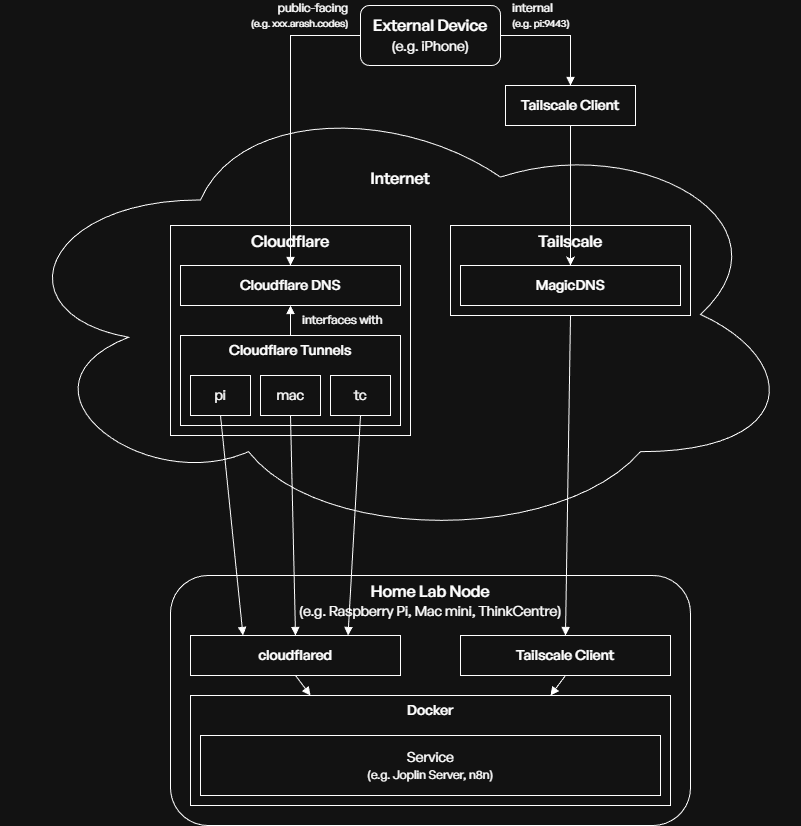
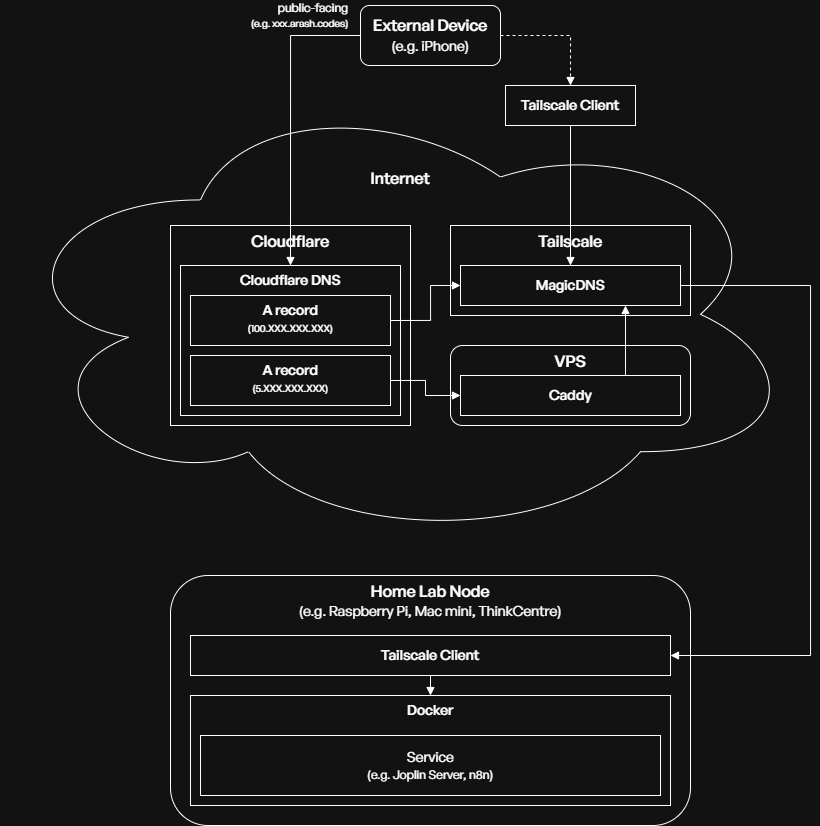
feat: update content

diff --git a/content/projects/homelabbing.md b/content/projects/homelabbing.md
@@ -1,11 +1,11 @@
 ---
-title: Homelabbing
+title: Nusantara (home lab)
 date: 2025-06-06
 tags:
   - spark
   - project
 ---
-A home lab is an environment consisting of running servers, services, and infrastructure setups at home, usually created as a form of exploration or interest. Homelabbing taps into the personal setups already readily available at home (networks and devices).
+A home lab is an environment consisting of running servers, services, and infrastructure setups at home, usually created as a form of exploration or interest. Home labbing taps into the personal setups already readily available at home (networks and devices).
 
 > [!abstract] The state of things
 > 
@@ -19,7 +19,7 @@ A home lab is an environment consisting of running servers, services, and infras
 > 
 > If you're curious about something in here that you'd like some clarification about, feel free to [reach out](https://arash.codes/#connect)! I'm more than happy to reply or even just say hi. :)
 
-I currently have an extremely basic homelab with the working name *Nusantara* — archipelago in Malay — with plans to expand even further and explore interesting tech in the time to come!
+My home lab's name is *Nusantara*, meaning archipelago in Malay. I think it's such an apt descriptor of how things are now — a federation of devices each with their own strengths, doing their own things, but still together nonetheless.
 
 # Overview
 
@@ -27,21 +27,23 @@ The two diagrams below that show different aspects of the home lab:
 
 ![[homelab-service-access-flow.png]]
 
-The **service access diagram** (above) shows the way an externally-connected device, such as my phone on the go, can connect to and access the services running on my home lab through external vendors that help bridge the home lab node to the Internet.
+The **service access diagram** (above) shows the way a client (e.g. my phone on the go), can connect to and access the services running in Nusantara through a chain that bridges it to the internet.
 
-The device can connect to a service through two means: public-facing (accessing a domain like `XXX.arash.codes`) in which the request is routed through Cloudflare's network (including its DNS records resolver and Tunnels) and internally in which the request is routed through Tailscale.
+The client has two means of connecting:
 
-- The consideration for using two different methods lie in security: services that shouldn't or doesn't need to be exposed to the entire internet (e.g. Portainer for handling Docker containers) are exposed internally through Tailscale. Services that should be accessible by other apps or for convenience (e.g. Joplin) will be exposed through Cloudflare.
+- Via a public-facing domain (e.g. `XXX.arash.codes`), through which the request is routed through Cloudflare DNS. In normal cases, the domain points to a public-facing VPS that handles routing using Caddy. If the service is private (i.e. should only be accessed by me), the connection can terminate by having an A record that points to a Tailscale IP (e.g. `100.XXX.XXX.XXX`); in this case, the connection will only go through if the client is connected to the tailnet using a Tailscale client.
+- Directly using Tailscale's MagicDNS (e.g. `100.XXX.XXX.XXX:PORT` or `DEVICE-NAME:PORT`). New or private services are typically connected to this way, until I find the time to update the Caddy configuration on the VPS to include the appropriate subdomain to enable routing. This connection only works if the client is connected to the tailnet using a Tailscale client.
 
 
 ![[homelab-network.png]]
 
-The **network diagram** (above) shows a technical overview of how my home lab nodes are connected to the internet. The flow follows a conventional set up for a home network, with the ISP connected to the household using a fibre optic cable that terminates at an ONT before the rest of the network is connected via Ethernet and Wi-Fi after the router.
+The **network diagram** (above) shows a technical overview of how the nodes in Nusantara are connected to the internet. Like most household networks, my ISP provisions broadband access through optical fibre. From there, through a series of networking devices (an ONT, consumer router, and unmanaged switch), internet connectivity is provisioned to each node in the network via Wi-Fi and/or Ethernet.
 
-- A key highlight in this network configuration is the use of [carrier-grade NAT](https://en.wikipedia.org/wiki/Carrier-grade_NAT) (CGNAT). CGNAT allows internet service providers (ISPs) to share a single public IP address between many customers often with cost- and resource-saving benefits. This causes several issues:
-	- Port forwarding is not supported, meaning conventional means of allowing external internet traffic into the home network is no longer supported. Found this out the hard way a long time ago when trying to set up a Minecraft server to no avail.
-	- Dynamic DNS, an alternative method to port forwarding, also is not supported.
-	- Accessing services within the network becomes harder, and alternatives (e.g. Tailscale and Cloudflare Tunnels) have to be looked into to access services from the internet.
+It's worth noting that my ISP uses [carrier-grade NAT](https://en.wikipedia.org/wiki/Carrier-grade_NAT) (CGNAT), which shares a single public IP address between many customers often with cost- and resource-saving benefits. Unfortunately for me, this implementation causes several issues:
+
+- Port forwarding is not supported, meaning conventional means of allowing external internet traffic into the home network is no longer supported. Found this out the hard way a long time ago when trying to set up a Minecraft server to no avail.
+- Dynamic DNS, an alternative method to port forwarding, also is not supported.
+- Accessing services within the network becomes harder, and alternatives (e.g. Tailscale and Cloudflare Tunnels) have to be looked into to access services from the internet.
 
 
 > [!info] Additional resources
@@ -67,7 +69,7 @@ The **network diagram** (above) shows a technical overview of how my home lab no
 	* 32 GB DDR4-3600 [[random-access-memory|RAM]]
 	* 1 TB + 1 TB SSD internal storage
 	* 8 GB NVIDIA RTX 3070 Ti
-* VPS
+* VPS (active)
 	* 64-bit 2 vCPU cores
 	* 2048 MiB [[random-access-memory|RAM]]
 	* 64 GiB internal storage
@@ -124,47 +126,53 @@ The **network diagram** (above) shows a technical overview of how my home lab no
 
 # Devlog
 
-## 16 January 2025
+**16 January 2026**
 
 - I'm playing around with the idea of giving this home lab the name *Nusantara* ("archipelago" in Malay). It just feels so perfect in many ways, and I think I'm going to commit to using that as a name moving forward
 	- It fits exactly with how this home lab is set up: a federation of separate devices working in unison, exactly like a collection of islands in an archipelago!
 
-## 3 January 2025
+**3 January 2025**
 
 - Made the switch to `ufw` from `firewalld` because of one certain issue where Docker keeps complaining about IPv4. I can't really explain what the error is because I don't really understand it, but I know that it has to do with `firewalld` and `nftables` instead of the native `iptables` that Docker is comfortable with
 
-## 2 January 2025
+**2 January 2025**
 
 - Continued work on migrating over things to the VPS and further securing it
 	- My home lab now no longer has any dependence on Cloudflare Tunnels; everything's been migrated over to the VPS now with Caddy handling the routing!
 	- I've adopted `firewalld` to secure the VPS' ports to try to mitigate attacks on the public IP address of the VPS
 	- I've played around with Caddy even more and learnt a lot about what it can do. One of the most exciting things is implementing a redirect for any subdomain (`*.arash.codes`) to the root domain `arash.codes` 
 
-## 1 January 2025
+**1 January 2026**
 
 - I might've made a rash decision to throw money for a VPS... but can I *really* say that it was a rash decision if I've been thinking about it for a while?
 	- Having access to a VPS now means that I can work around all my CGNAT issues, and that means I can play around with networking on a more intricate manner
 - Pangolin seems like a good thing to try out, but might it conflict with the Tailscale implementation I already have going on now?
-## 31 December 2025
+
+**31 December 2025**
 
 - After the disaster that was [[#28 December 2025|running `rm -rf /*`]], I decided to reinstall Debian on the ThinkCentre. The backup scripts I vibe-coded really came in clutch — it restored all but one of my services running on Docker, and I'm pretty happy with how that turned out!
 - Tailscale might encounter an issue where it has to fight other services in overwriting the `/etc/resolv.conf` file. [Tailscale discusses this in their docs](https://tailscale.com/kb/1188/linux-dns?q=dns+fighting#dhcp-dhclient-overwriting-etcresolvconf), but it's pretty short and I couldn't find much info besides the clue of installing `systemd-resolved`. Here's what you need to do after installing it:
+  
 	1. Enable and start the system service.
 	   ```
 	   sudo systemctl enable systemd-resolved
 	   sudo systemctl start systemd-resolved
-	    ```
+	   ```
+
 	2. Edit `/etc/systemd/resolved.conf` and add a preferred DNS server of your choice. This will apply to all interfaces globally.
+	
 	3. Restart the system service and check its status.
 	   ```
 	   sudo systemctl restart systemd-resolved
 	   resolvectl status
 	   ```
-	   4. If MagicDNS is still not working as expected, disable and re-enable MagicDNS on the server again.
-	    ```
-	    sudo tailscale set --allow-dns=false
-	    sudo tailscale set --allow-dns
-	    ```
+
+	4. If MagicDNS is still not working as expected, disable and re-enable MagicDNS on the server again.
+	   ```
+	   sudo tailscale set --allow-dns=false
+	   sudo tailscale set --allow-dns
+	   ```
+
 - Goodbye Portainer, hello Komodo! I've finally ported over all my Docker containers + Compose files over. I did this for several reasons:
 	- I liked the idea that Komodo is fully open-source, compared to Portainer that has some business/enterprise offerings and feature paywalls
 	- I found Komodo's interface a lot easier to navigate than Portainer's, and it's easy to configure stacks and containers
@@ -174,36 +182,38 @@ The **network diagram** (above) shows a technical overview of how my home lab no
 - I think I've configured a flow between Renovate, GitHub, and Komodo that allows the semi-auto-updating (still needs my review to merge the PR) of my home lab's services. It's not exactly the same as the Reddit post I saw yesterday, because it has a small catch that I'm not as satisfied with
 	- Instead of using webhooks and redeploying when the Docker Compose files get updated, I run a cron job every midnight that pulls the repository and updates the files if there are any updates. The main reason behind this is that the Kodomo instance is only available behind Tailscale, and GitHub won't be able to call the webhook because the instance is unreachable from the public :(
 
-## 30 December 2025
+**30 December 2025**
 
 - I saw a Reddit post about [someone setting up Renovate, Forgejo, and Komodo together](https://www.reddit.com/r/selfhosted/comments/1pywu5v/i_finally_setup_komodo_forgejo_renovate_for/). Seems pretty enticing — would be really nice to have an auto-updatable home lab stack with my Git repo of Compose files!
 - I finally upgraded n8n to v2.0+, which [fixes a super annoying issue](https://docs.n8n.io/2-0-breaking-changes/#return-expected-sub-workflow-data-when-the-sub-workflow-resumes-from-waiting-waiting-for-webhook-forms-hitl-etc) that bricked an important custom tool for Pip. I'm glad that the devs managed to identify and solve the issue!
 	- The gist of it is this: before v2.0, AI agents that call other n8n subflows that have some asynchronous task (e.g. asking and waiting for human approval) may obtain an unexpected output: the input itself!
 	- If my tool is to run a shell command, given the input of the command to run, the AI agent will see the output of the command to run again instead of seeing the exit code, standard output, and standard error as expected
 
-## 28 December 2025
+**28 December 2025**
 
 - Finally figured out how to combine Cloudflare DNS and Tailscale to make an internal service available through a public domain! This means that I can connect to a service `XXX` at `XXX.arash.codes`, but only if I'm connected to my tailnet. If you're curious, the steps are here:
+
 	1. Create an A (if you want to use the IPv4 MagicDNS address) or CNAME (if you want to use the domain MagicDNS address) and point it to your server connected to the tailnet
 		- If you're using a provider like Cloudflare that offers proxying services (that orange cloud next to your record), make sure to disable it — this only works if the provider routes DNS requests only
-	2. Use Caddy (or another web server/reverse proxy service) to route requests coming from `XXX.yourdomain.tld` the local service running on a port on your server
-		   - Since my service also implements a self-signed SSL certificate, I'll need to tell Caddy to ignore insecure TLS versions. My Caddyfile looks something like this:
-		     
-		   ```
-		   XXX.arash.codes {
-			  reverse_proxy https://localhost:PORT {
-			    transport http {
-			      tls
-			      tls_insecure_skip_verify
-			    }
-			  }
+
+	2. Use Caddy (or another web server/reverse proxy service) to route requests coming from `XXX.yourdomain.tld` the local service running on a port on your server. Since my service also implements a self-signed SSL certificate, I'll need to tell Caddy to ignore insecure TLS versions. My Caddyfile looks something like this:
+	   
+	   ```
+	   XXX.arash.codes {
+		  reverse_proxy https://localhost:PORT {
+			transport http {
+			  tls
+			  tls_insecure_skip_verify
 			}
-		   ```
+		  }
+		}
+	   ```
+
 - Guess 👏 who 👏 ran 👏 `rm -rf /*` 👏 instead 👏 of 👏 `rm -rf ./*`?
 	- This kinda messed up my ThinkCentre, but I'm so glad that I didn't run `sudo` — that might've irrevocably destroyed my ThinkCentre and forced me to reinstall Debian on that poor guy
 	- Lesson learnt: [I've vibe-coded a script](https://github.com/arashnrim/homelab/commit/1fc293199c91d1fc8ae7b9a3b9fc748aa6645f34) that backs up the contents of all the Docker volumes and bind mounts (the important stuff) and throws them to the HDD attached to the Raspberry Pi for safe (enough) storage
 
-## 27 December 2025
+**27 December 2025**
 
 - I'm now switching over Uptime Kuma to Checkmate as my primary uptime monitoring tool, mostly because Checkmate exposes an API that's easy to interface with in other places (e.g. my n8n Telegram bot!)
 - My obsession with this n8n Telegram bot project has gotten bad to the point where I can't help but create even more tools for the agent to use, and seeing everything come together just scratches my brain the right way...
@@ -213,7 +223,7 @@ The **network diagram** (above) shows a technical overview of how my home lab no
 - Learnt that Tailscale has a wrapper around SSH called [Tailscale SSH](https://tailscale.com/kb/1193/tailscale-ssh) that abstracts the authentication component. In other words, once Tailscale SSH has been configured on a remote device on the tailnet, calling ssh username@magicdns-hostname will cause Tailscale to intercept and approve the authentication automatically. No more passwords or SSH keys!
 	- A small caveat with this is that [there doesn't seem to be Windows support](https://tailscale.com/kb/1193/tailscale-ssh#prerequisites) just yet and that you'll need to install [the right version of Tailscale on macOS](https://tailscale.com/kb/1065/macos-variants#which-should-i-choose)
 
-## 26 December 2025
+**26 December 2025**
 
 - I must admit that I've been falling down an n8n rabbit hole ever since I truly started playing with it last weekend. I'm now combining many different sub-workflows with an LLM agent to make [[pip|a cute yet helpful assistant]] that can do loads of things, from:
 	- Checking up on the state of my home lab (including pinging, seeing if they're connected to the tailnet, and checking the uptime status of some services)
@@ -222,12 +232,12 @@ The **network diagram** (above) shows a technical overview of how my home lab no
 	- Fetching my calendar and viewing events from there (not really full CRUD yet though!)
 - And there surely will be more to come in the next few days. RIP to my sleep schedule.
 
-## 21 December 2025
+**21 December 2025**
 
 - Came across a video from Tailscale that shows a working implementation of Cloudflare DNS with a tailnet, effectively creating a private intranet of public domain names accessible only by authenticated devices connected to the tailnet ([video here](https://youtu.be/Vt4PDUXB_fg?si=uLMY1mb1eWwqBFtk)). Seems pretty interesting, will give it a try!
 	- I walk away with my head low as some networking issue throws itself at me once again. I'll try it again when I have the time!
 
-## 13 December 2025
+**13 December 2025**
 
 - Came across Pangolin as a potential alternative to Tailscale, and the idea of switching seems pretty promising solely based on what I've been seeing so far:
 	- Increasing adoption within home lab users with a considerable majority saying that their experience has been positive
@@ -235,11 +245,11 @@ The **network diagram** (above) shows a technical overview of how my home lab no
 - Also finally started looking at establishing a back up system for all crucial services (i.e. Paperless, Portainer, etc.)
 	- Came across `launchd` as macOS' preferred scheduling system over `cron`, so I'm seeing if I can schedule a back-up script to be run once in a while to automatically copy over files to the Raspberry Pi HDD (which is in itself being backed up to Google Drive using `rclone`). Backing up magic in progress!
 
-## 11 December 2025
+**11 December 2025**
 
 - Finally took me a long time, but I finally opted to switch over to using keys instead of password authentication for SSH connections between the devices in my home lab. It makes things a lot more seamless — no more having to enter passwords everywhere anymore once SSH keys are set up!
 
-## 8 December 2025
+**8 December 2025**
 
 - Awkward story, but... I've accidentally nuked my Debian WSL instance off the face of my Windows PC, so I'm currently planning to cut back on the PC's involvement in the home lab for now. Never let a Stack Overflow answer tell you to run the `--unregister` flag before reading the comment belows it that says "yes, this sets up a new instance of Debian"
 	- Docker Desktop is running with the WSL2 integration enabled, meaning that the deletion of the Debian distro entirely messes up Docker. I've currently fixed that problem by pretending Docker doesn't exist and nuking it off my PC, too
@@ -250,7 +260,7 @@ The **network diagram** (above) shows a technical overview of how my home lab no
 	- The solution was to allow Local Networks permissions to OrbStack on macOS. This was something I missed out on a while back, and since I hardly access my Mac by remote connecting into it, I couldn't notice the issue sooner
 - Finally migrated the main Portainer CE instance from the Raspberry Pi to the ThinkCentre. It was a lot more tedious because of the mismatch in the backup data, but seems like we're all good for now?
 
-## 22 November 2025
+**22 November 2025**
 
 - Learnt more about the concept of orchestration with interactions from LLMs, and decided that orchestration isn't the right path for this home lab (booooo, I'll catch any tomatoes you throw at me)
 	- Orchestration frameworks assume fungible compute resources (meaning that it doesn't care *where* things run, just that it *runs*). This clashes with the current infrastructure I have, where each node (device) in the infra is purpose-built — the Pi is the low-power and always-on coordinator, the Mac is the mid-tier workhorse, etc.
@@ -259,7 +269,7 @@ The **network diagram** (above) shows a technical overview of how my home lab no
 - Curious about [Ansible](https://www.redhat.com/en/ansible-collaborative?intcmp=7015Y000003t7aWQAQ) and the idea of automating the provisioning (setting up) of devices
 	- Might be handy to always ensure that Docker is installed on future devices with Watchtower set up!
 
-## 20 June 2025
+**20 June 2025**
 
 - Figured out Samba and managed to get a Samba share working from the external 1 TB HDD connected to the Pi (USB) to the other devices in the home network!
 - Came across Radicale and thought it can replace my current contacts + calendar back-up implementation (running on [Wölkli](https://woelkli.com)'s hosted Nextcloud instance)

diff --git a/content/readings/the-kids-forgotten-by-calls-to-ban-phones.md b/content/readings/the-kids-forgotten-by-calls-to-ban-phones.md
@@ -1,0 +1,20 @@
+---
+title: "The kids forgotten by calls to ban phones"
+description: "Campaigns calling for smartphone-free childhoods might be well meaning, but the choice is not so simple for all families"
+date: "2025-12-31"
+authors: ["Alice Gregory"]
+tags: [living]
+---
+[Visit the original here](https://psyche.co/notes-to-self/the-children-forgotten-by-those-who-are-calling-for-phone-bans)
+
+# Annotations
+
+> The feeling reminded me of a quote I’d once encountered, about how easy it is to be distracted by disposable content. It perfectly summed up what’s so quietly frustrating about social media these days, but the irony was that I couldn’t remember the exact quote, or even where I’d seen it, due to the sheer amount of content I regularly consume.
+
+> I thought for sure it was a quote from the YouTuber Mina Le’s insightful video ‘Why Is Social Media Not Fun Anymore?’
+
+> Evan Puschak, aka The Nerdwriter, who in my opinion is the best video essayist out there, explores this topic with humour and relatability in the essay ‘I Think the Internet Wants to Be My Mind’ from his book Escape into Meaning (2022).
+
+> Increasingly, many people, who by any objective measure are getting enough sleep, are worrying unnecessarily that their sleep is not ‘good enough’.
+
+> It seems their forensic searching for the ‘best’ reveals more options, but also inflates expectations of perfection and, once they’re locked in, they are painfully aware of all the rejected alternatives.

diff --git a/content/readings/how-to-rest-well.md b/content/readings/how-to-rest-well.md
@@ -1,0 +1,21 @@
+---
+title: "How to rest well"
+description: "Taking a break isn’t lazy – learning to recharge is a skill that will allow you to enjoy a more creative, sustainable life"
+date: "2026-01-03"
+authors: ["Alex Soojung-Kim Pang"]
+tags: []
+---
+[Visit the original here](https://psyche.co/guides/how-to-rest-well-and-enjoy-a-more-creative-sustainable-life)
+
+# Annotations
+
+> In his book The Use of Life (1895), the Victorian author John Lubbock wrote:
+Rest is not idleness, and to lie sometimes on the grass under the trees on a summers day, listening to the murmur of water, or watching the clouds float across the blue sky, is by no means a waste of time.
+
+> Moreover, studies show that good rest is not idleness. The most restorative forms of rest are active, not passive. Further, rest is a skill: with practice, you can learn to get better at it, and to get more out of it.
+
+> First, schedule your work around periods of uninterrupted, highly focused blocks of 90-120 minutes, followed by rest breaks of 20-30 minutes.
+
+> Second, schedule those work periods so you do your most important tasks during your periods of peak energy and focus (your ‘circadian highs’).
+
+> Winston Churchill advised that, for busy people: ‘It is not enough merely to switch off the lights which play upon the main and ordinary field of interest; a new field of interest must be illuminated.’

diff --git a/content/meta/two-halves-one-ecosystem.md b/content/meta/two-halves-one-ecosystem.md
@@ -7,7 +7,7 @@ date: 2025-01-31
 ---
 ![](fn-delta-venn-diagram.png)
 
-I've been thinking about how I might transition over to a more "open" digital garden-like way of writing and sharing my thoughts on the Internet. I currently have a rigid and more traditional blog called [function()](https://blog.arash.codes), and I realised that there has been a lot of friction in writing mostly because of how I approach it: I have that rigid structure of prose in mind, and that conflicts with what I'm looking for with a inherently imperfect and incomplete web of ideas and notes.
+I've been thinking about how I might transition over to a more "open" digital garden-like way of writing and sharing my thoughts on the internet. I currently have a rigid and more traditional blog called [function()](https://blog.arash.codes), and I realised that there has been a lot of friction in writing mostly because of how I approach it: I have that rigid structure of prose in mind, and that conflicts with what I'm looking for with a inherently imperfect and incomplete web of ideas and notes.
 
 I'm therefore opting to explore this alternative where I have these two avenues of writing that I'll contribute actively to, but with slightly different purposes:
 

diff --git a/content/readings/claudes-new-constitution.md b/content/readings/claudes-new-constitution.md
@@ -1,0 +1,18 @@
+---
+title: "Claude's new constitution"
+description: "A new approach to a foundational document that expresses and shapes who Claude is"
+date: "2026-01-22"
+authors: []
+tags: [ethics, generative AI, human-AI interaction, tech]
+---
+[Visit the original here](https://www.anthropic.com/news/claude-new-constitution)
+
+# Annotations
+
+> The constitution is a crucial part of our model training process, and its content directly shapes Claude’s behavior.
+
+> We treat the constitution as the final authority on how we want Claude to be and to behave—that is, any other training or instruction given to Claude should be consistent with both its letter and its underlying spirit.
+
+> We think that in order to be good actors in the world, AI models like Claude need to understand why we want them to behave in certain ways, and we need to explain this to them rather than merely specify what we want them to do.
+
+> If we want models to exercise good judgment across a wide range of novel situations, they need to be able to generalize—to apply broad principles rather than mechanically following specific rules.

diff --git a/content/readings/software-craftsmanship-is-dead.md b/content/readings/software-craftsmanship-is-dead.md
@@ -1,0 +1,14 @@
+---
+title: "Software craftsmanship is dead"
+description: "What the **** does that mean?"
+date: "2026-01-04"
+authors: []
+tags: [tech]
+---
+[Visit the original here](https://www.pcloadletter.dev/blog/craftsmanship-is-dead/)
+
+# Annotations
+
+> Don't get me wrong, there are pockets of good code quality. Isolated instances of true care and craftsmanship. But, by and large, what I see now is people trying to ship products as fast as possible without regard for the maintenance burden 1, 2, 5, 10 years down the road.
+
+> Now, more than ever, you're likely to be in an Agile™ environment in which you get overloaded with tasks. Should you focus on improving the quality of the feature you're working on? Or should you get on to the other 17 tasks you have this sprint?

diff --git a/content/index.md b/content/index.md
@@ -20,7 +20,7 @@ If you're curious about abstract ideas, have a look at my [[north-star|north sta
 
 If you're curious about what I've been up to now:
 
-- [[homelabbing|Exploring homelabbing]], where I try to bring together different devices for a nice experimental sandbox
+- [[homelabbing|Creating Nusantara]] — my home lab — where I try to bring together different devices for a nice experimental sandbox
 - Deepening my relationship with [[digital-minimalism|digital minimalism]] and doing my own thing while spinning down my use of my daily tech
 - Experiencing major post-game depression with the masterpiece that is [[clair-obscur-expedition-33|Clair Obscur: Expedition 33]]
 - Reading Ocean Vuong's *[[on-earth-were-briefly-gorgeous|On Earth We're Briefly Gorgeous]]*

diff --git a/content/readings/llm-hallucinations-are-still-absolutely-nuts.md b/content/readings/llm-hallucinations-are-still-absolutely-nuts.md
@@ -1,0 +1,12 @@
+---
+title: "LLM Hallucinations Are Still Absolutely Nuts"
+description: "A couple months back, a grad student reached out to me to see if I could help with some research they were doing."
+date: "2026-01-07"
+authors: ["Freddie deBoer"]
+tags: [generative AI, tech]
+---
+[Visit the original here](https://freddiedeboer.substack.com/p/llm-hallucinations-are-still-fucking)
+
+# Annotations
+
+> Gemini discussed Vance Hall in detail, describing it as a hub of patient education, vocational training, job opportunities, commerce, and socializing. The intricacy of the descriptions provided by Gemini are somewhat offset by the fact that Vance Hall does not exist.

diff --git a/content/technology/personal-internet.md b/content/technology/personal-internet.md
@@ -7,7 +7,7 @@ tags:
 ---
 > [!question] Leading question
 > 
-> What does it mean to have your own personal space on the Internet? What fits the bill?
+> What does it mean to have your own personal space on the internet? What fits the bill?
 
 I came across an event from the National Library Board about [crafting a handmade web](https://nlb.libcal.com/event/5860046) and signed up for it. In preparation for that chat, I decided to go down a rabbit hole behind [one of the speakers' Are.na pages](https://www.are.na/lina-l/websites-im-perceiving) — and as I dive deeper, the clearer the idea of a personal internet spoke out to me.
 

diff --git a/content/readings/its-hard-to-justify-tahoe-icons--tonskyme.md b/content/readings/its-hard-to-justify-tahoe-icons--tonskyme.md
@@ -1,0 +1,14 @@
+---
+title: "It’s hard to justify Tahoe icons @ tonsky.me"
+description: "Looking at the first principles of icon design—and how Apple failed to apply all of them in macOS Tahoe"
+date: "2026-01-06"
+authors: ["Nikita Prokopov"]
+tags: [tech]
+---
+[Visit the original here](https://tonsky.me/blog/tahoe-icons/)
+
+# Annotations
+
+> The main function of an icon is to help you find what you are looking for faster.
+
+> Perhaps counter-intuitively, adding an icon to everything is exactly the wrong thing to do. To stand out, things need to be different. But if everything has an icon, nothing stands out.

diff --git a/content/projects/pip.md b/content/projects/pip.md
@@ -7,7 +7,7 @@ tags:
 ---
 ![[pip.png]]
 
-A helpful assistant that runs on a Telegram interface. Started out as a branch from [[homelabbing|my homelabbing project]], Pip emerged as a fun experiment for me to see what n8n is capable of with its AI-first workflow capabilities.
+A helpful assistant that runs on a Telegram interface. Started out as a branch from [[homelabbing|my home labbing project]], Pip emerged as a fun experiment for me to see what n8n is capable of with its AI-first workflow capabilities.
 
 # The system
 

diff --git a/content/technology/networking/internet-protocol.md b/content/technology/networking/internet-protocol.md
@@ -6,4 +6,4 @@ tags:
   - knowledge
 ---
 
-A network layer communications protocol in the [[internet-protocol-suite]] for relaying datagrams across network boundaries. Provides a packet delivery service between end hosts, also known as routing.
+A network layer communications protocol in the [[internet-protocol-suite|internet protocol suite]] for relaying datagrams across network boundaries. Provides a packet delivery service between end hosts, also known as routing.
